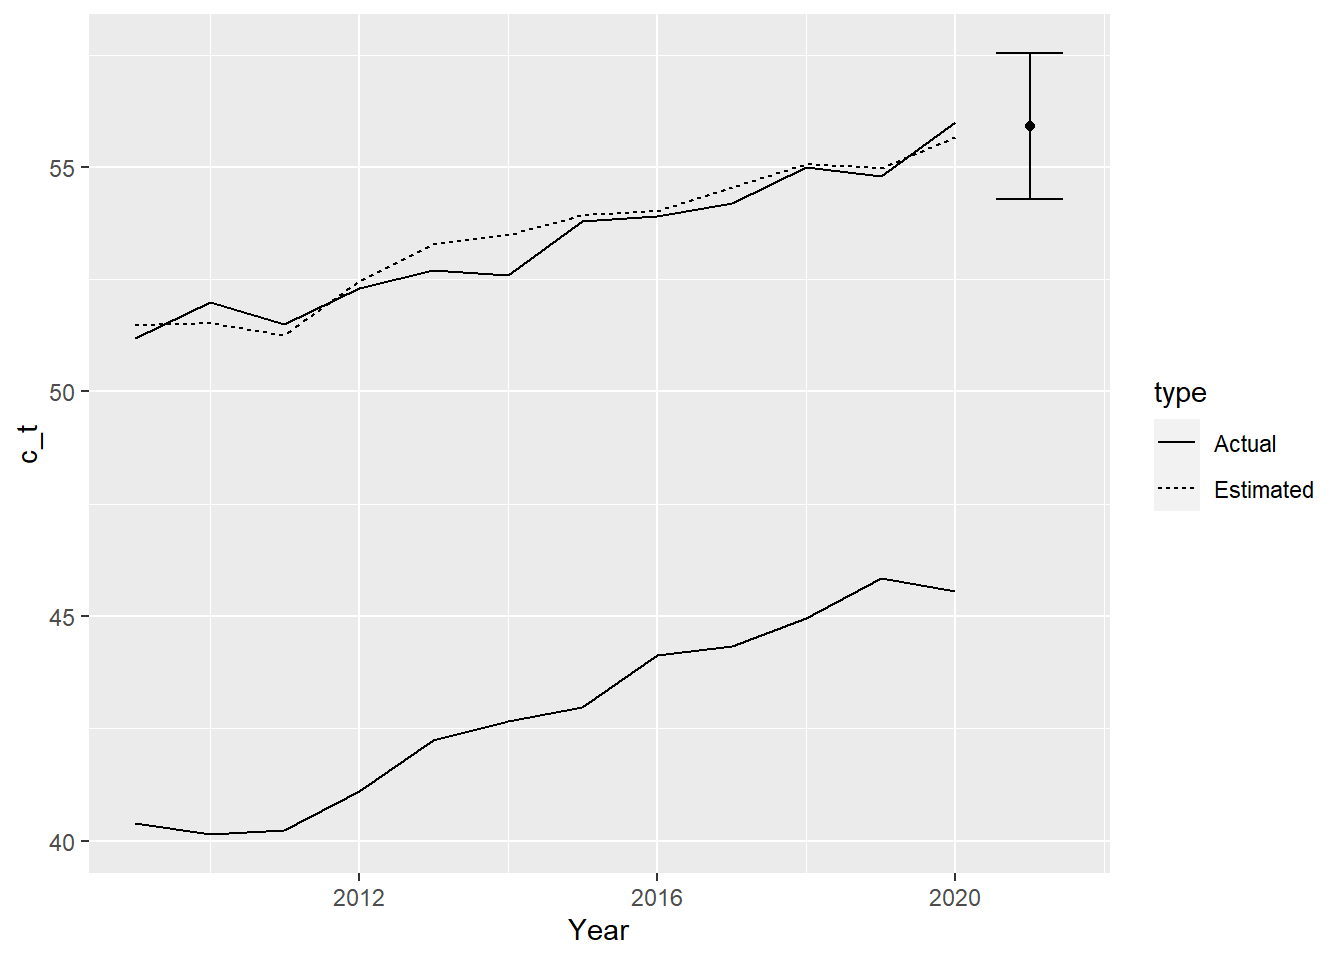
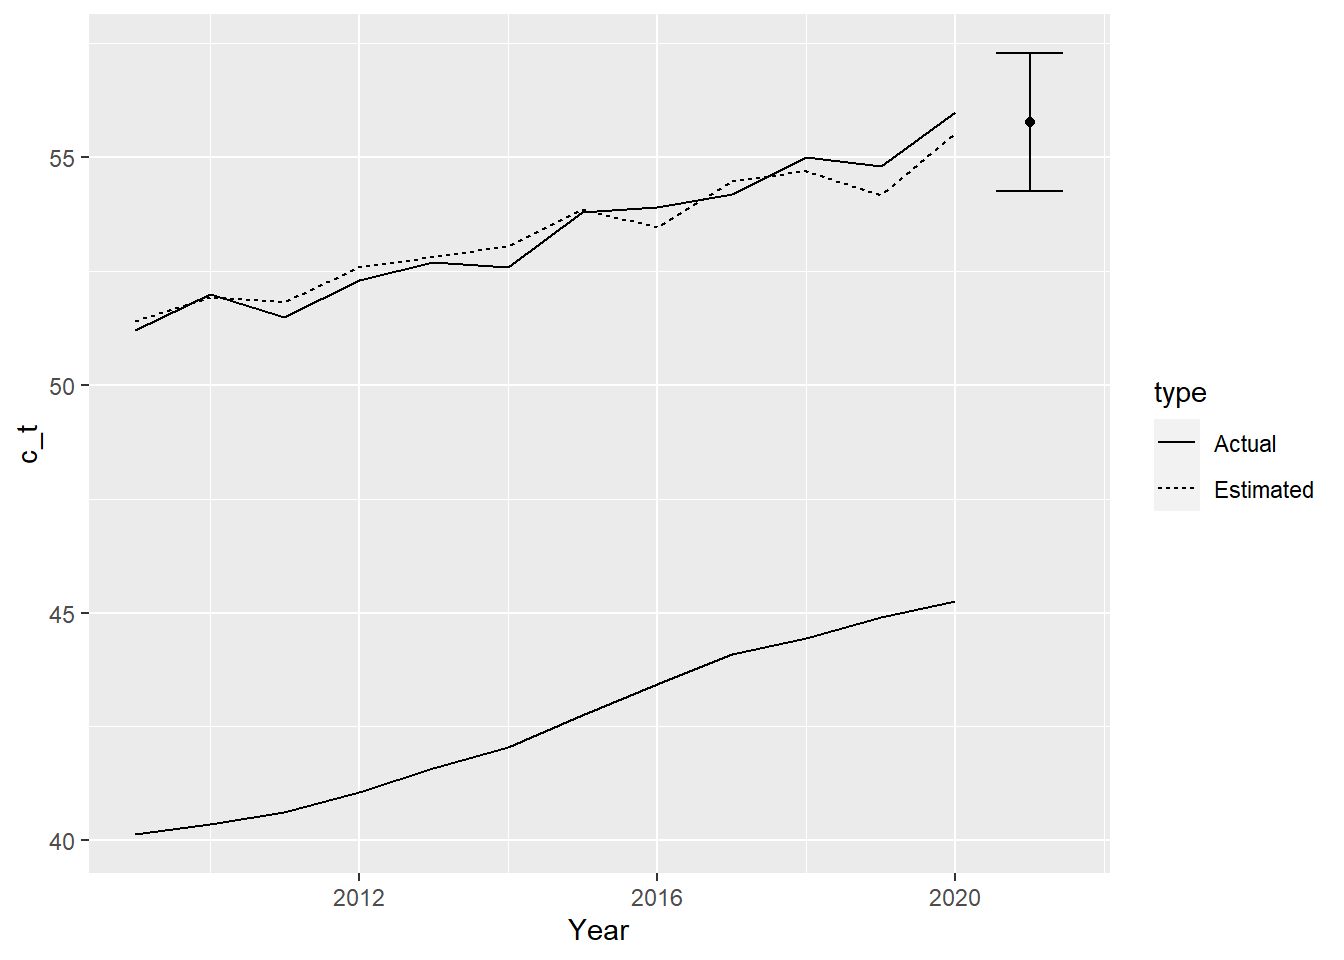
Update ABC

diff --git a/content/post/2021-04-25-estimating-admission-cutpoints-using-approximate-bayesian-computing-abc/index.html b/content/post/2021-04-25-estimating-admission-cutpoints-using-approximate-bayesian-computing-abc/index.html
@@ -58,7 +58,8 @@ the number of applicants <span class="math inline">\(a_t\)</span> and available 
 <p>However, the choice of normally distributed point scores introduces an estimation problem. If we believe that the mean and variance of the point score distribution of applicants is different for different years, we have an identifiability problem. We are trying to estimate two parameters based on observing a single empirical quantile of the distribution. Since quantiles in the normal distribution is a function of both the mean and the variance, there is an infinite number of <span class="math inline">\((\mu_t, \sigma_t^2)\)</span>-parameters corresponding to any quantile.</p>
 <p>The solution is to use prior information. The first piece of prior information is that the mean point score of potential applicants is slowly varying from year to year, i.e we are smoothing the <span class="math inline">\(\mu_t\)</span>-estimates. This is done by assuming a random walk on <span class="math inline">\(\mu_t\)</span>:
 <span class="math display">\[p(\mu_1) = \mathcal{N}(40, 5^2) \text{ and } p(\mu_{t+1}|\mu_t) = \mathcal{N}(\mu_t, \delta^2).\]</span> The second piece of prior information is that the variance <span class="math inline">\(\sigma^2\)</span> is equal for all years, with a prior distribution <span class="math inline">\(p(\sigma)\sim\text{Gamma}(\alpha, \beta)\)</span>.</p>
-<p>Finally, we need to choose <span class="math inline">\(\delta\)</span> and <span class="math inline">\((\alpha, \beta)\)</span>. To choose <span class="math inline">\(\delta\)</span> we can take a look at the change of the average grade in high school between 2009 and 2020.</p>
+<p>Finally, we need to choose <span class="math inline">\(\delta\)</span> and <span class="math inline">\((\alpha, \beta)\)</span>. To choose <span class="math inline">\(\delta\)</span> we can take a look at the change of the average grade in high school between 2009 and 2020. Very roughly, the average grade has changed 0.5 over these 11 years, meaning that the point score has changed on the order of <span class="math inline">\(10\times 0.5 = 5\)</span> points. Since we only have aggregate data, we set <span class="math inline">\(\delta\)</span> by selecting the one which maximized the probability of seeing a change of 5 points in a normal density with mean 0 and standard deviation <span class="math inline">\(\sqrt{11}\delta\)</span>. We maximize the log likelihood by setting the derivative equal to 0:
+<span class="math display">\[-\frac{1}{2} \frac{d}{d\delta} \left(\log(2\pi 11\delta^2) + \frac{5^2}{11\delta^2}\right)=\frac{2(\delta^2 - 5^2)}{\delta^3}.\]</span> The <span class="math inline">\(\delta\)</span> which maximizes this expression is <span class="math inline">\(\delta = \frac{5}{\sqrt{11}}\approx 1.5\)</span></p>
 <pre class="r"><code>require(tidyverse)
 law &lt;- read_csv(&quot;law.csv&quot;) %&gt;% rename(c_t = Poenggrense,
                                       a_t = Søkere,
@@ -72,21 +73,21 @@ ggplot(law, aes(x = y_t, y = c_t)) +
 
 prior_mu_1_mu &lt;- 40 #Prior mean for the average point score in 2009
 prior_mu_1_sig &lt;- 5 #Prior std.dev for the average point score in 2009
-delta_mu_sig &lt;- 2 #Std.dev of the mu_t+1 - mu_t random walk prior
+delta_mu_sig &lt;- 5/sqrt(11) #Std.dev of the mu_t+1 - mu_t random walk prior
 
 sig_alpha &lt;- 10
 sig_beta &lt;- 1 #scale 
 
-iterations &lt;- 1e3
+iterations &lt;- 1e4
 eps &lt;- 3
 
-n_yrs &lt;- 12
 a_t &lt;- law %&gt;% select(a_t) %&gt;% pull()
 s_t &lt;- law %&gt;% select(s_t) %&gt;% pull()
 c_t &lt;- law %&gt;% select(c_t) %&gt;% pull()
 q_t &lt;- (a_t - s_t)/a_t
 
-mu &lt;- rep(0, 11)
+n_yrs &lt;- 12
+mu &lt;- rep(0, n_yrs)
 sim_c_t &lt;- mu
 sigma &lt;- 0
 
